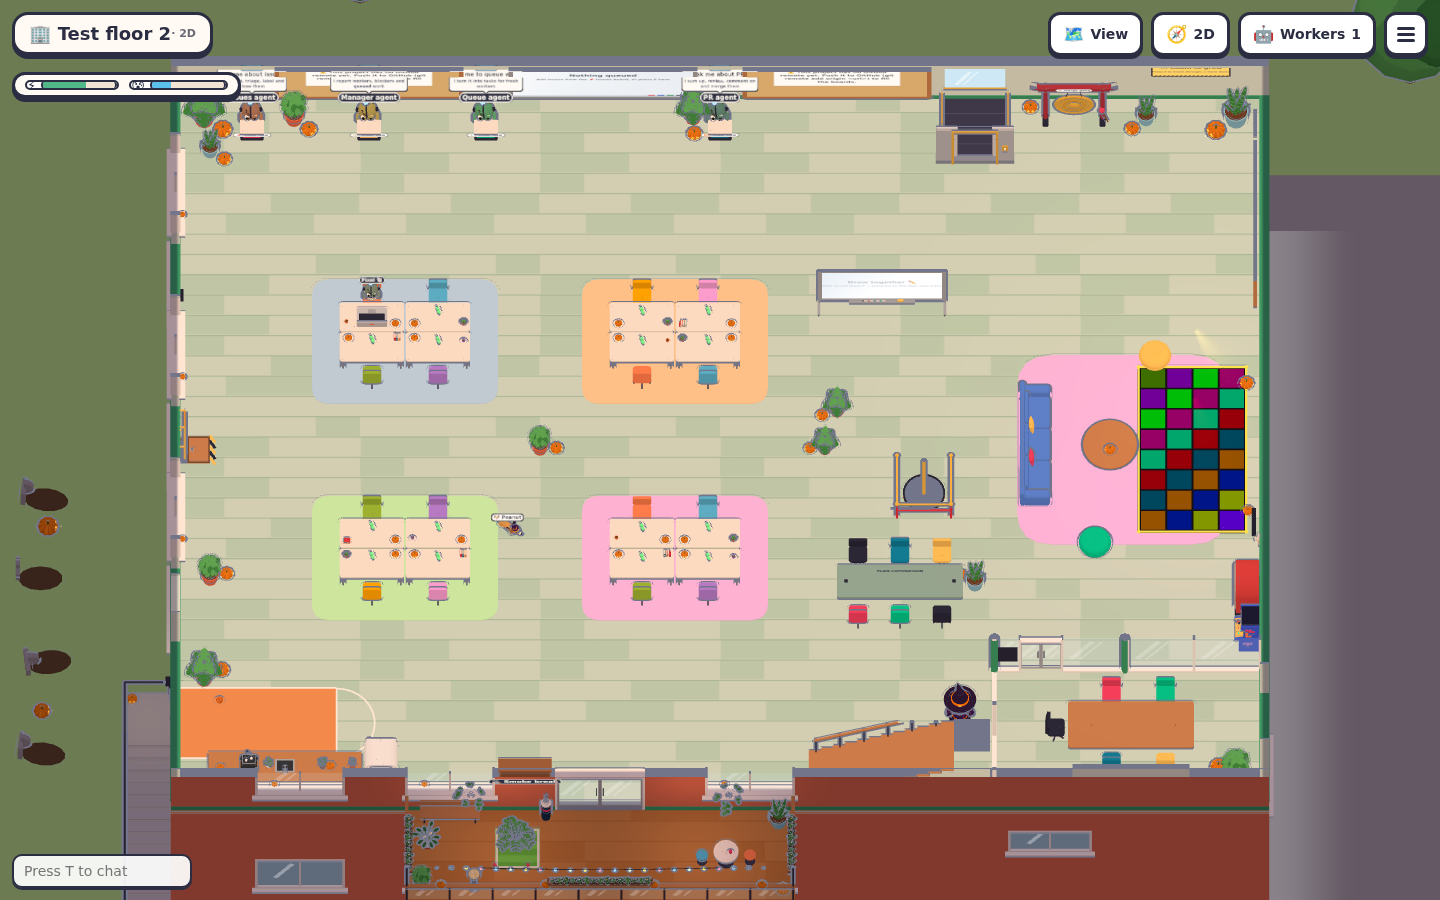
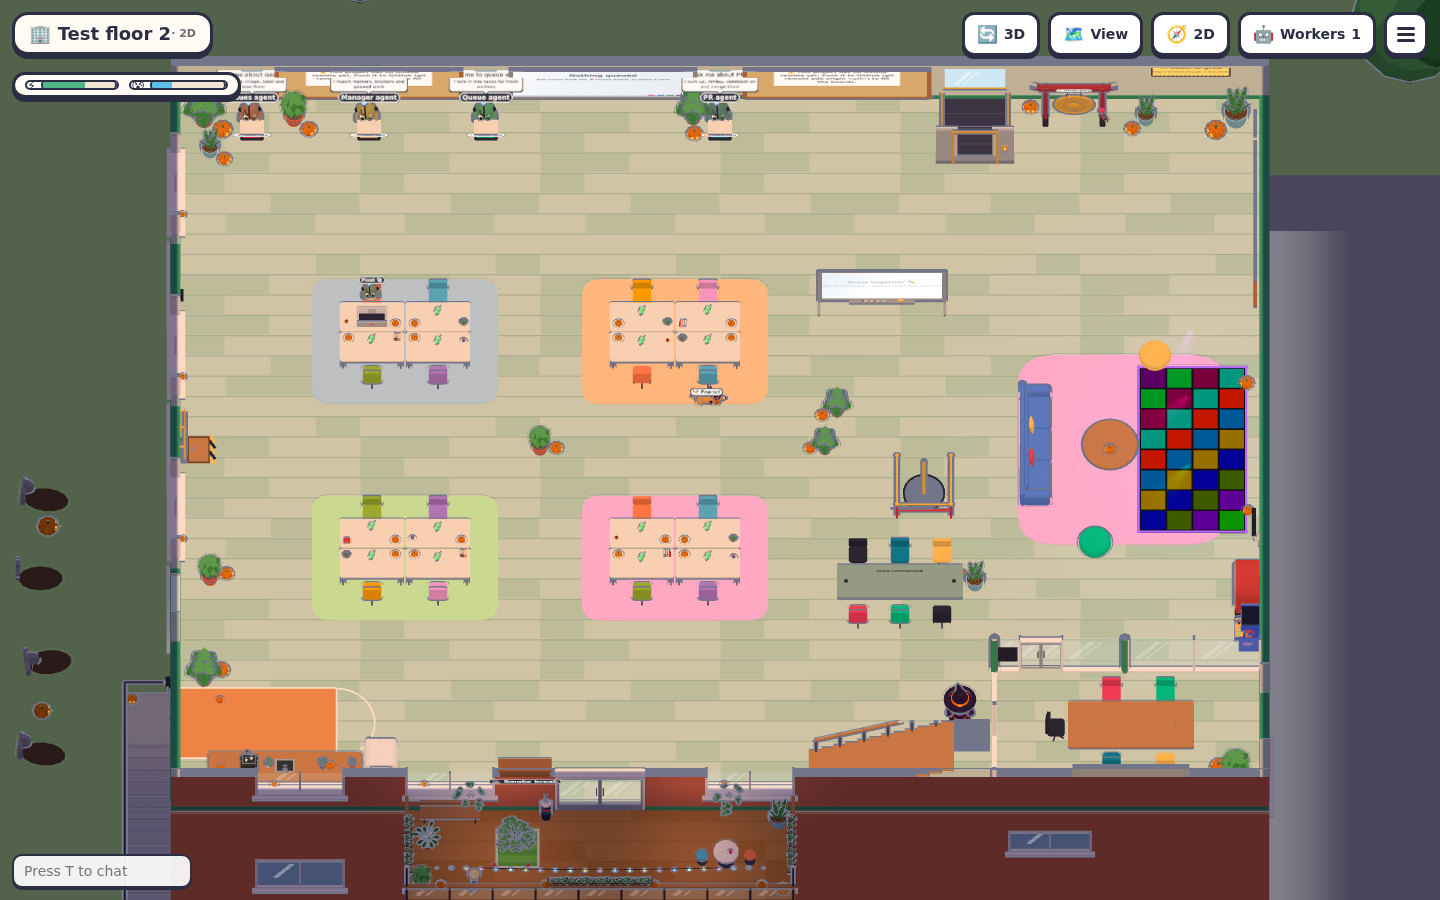
Add direct view toggle and anchor 2D camera during jumps

diff --git a/src/client/features/topdown/index.ts b/src/client/features/topdown/index.ts
@@ -4,6 +4,7 @@ import type { CoreState } from '../../core/ctx';
 import type { Parts } from '../../core/parts';
 import { modalOpen, h, openModal } from '../../ui/dom';
 import { HUD_ACTIONS } from '../../ui/menu';
+import { groundAt } from '../../player/collide';
 import { PlanCamera } from './camera';
 export { isTopdownRoute } from './camera';
 import { store } from '../../state';
@@ -44,7 +45,9 @@ export function installTopdown(ctx: Ctx, core: CoreState, parts: Parts) {
     camera.perspective = !plan;
     ctx.renderer.shadowMap.enabled = !plan;
     camera.updateProjectionMatrix();
-    cut.constant = plan ? ctx.player.pos.y + 2.5 : 1e6;
+    // Follow the supporting floor, not the airborne player's jump arc.
+    const floorY = Math.max(groundAt(ctx.player.colliders, ctx.player.pos.x, ctx.player.pos.z, ctx.player.pos.y), ctx.player.street);
+    cut.constant = plan ? floorY + 2.5 : 1e6;
     ctx.player.mouseLook = !plan;
     if (!plan) return;
     ctx.me.root.visible = true; // The plan camera never sits inside your character.
@@ -53,8 +56,8 @@ export function installTopdown(ctx: Ctx, core: CoreState, parts: Parts) {
     const clamp = (at: number, min: number, max: number, half: number) => max - min <= half * 2 ? (min + max) / 2 : THREE.MathUtils.clamp(at, min + half, max - half);
     const x = indoors ? clamp(p.x, room.minX, room.maxX, camera.span * camera.aspect / 2) : p.x;
     const z = indoors ? clamp(p.z, room.minZ, room.maxZ, camera.span * 0.55) : p.z;
-    camera.position.set(x, p.y + 50, z + 24);
-    camera.lookAt(x, p.y, z);
+    camera.position.set(x, floorY + 50, z + 24);
+    camera.lookAt(x, floorY, z);
     camera.updateMatrixWorld();
   } });
   ctx.ticks.add('env', () => {

diff --git a/src/client/features/view-selector/index.ts b/src/client/features/view-selector/index.ts
@@ -1,7 +1,10 @@
 import type { Ctx } from '../../core/context';
-import { openViewSelector } from '../../shared/view-selector';
+import { isTopdownRoute } from '../topdown/camera';
+import { openViewSelector, switchView } from '../../shared/view-selector';
 import { HUD_ACTIONS } from '../../ui/menu';
 export function installViewSelector(ctx: Ctx) {
   window.addEventListener('pagehide', () => ctx.net.disconnect());
+  const topdown = isTopdownRoute();
+  HUD_ACTIONS.push({ id: 'toggle-view', icon: '🔄', label: topdown ? 'Switch to 3D' : 'Switch to 2D', section: 'Office', status: () => true, chip: () => topdown ? '3D' : '2D', run: () => switchView(topdown ? '/' : '/2d', ctx.net) });
   HUD_ACTIONS.push({ id: 'views', icon: '🗺', label: 'View: 3D / 2D Game / Lite', section: 'Office', status: () => true, chip: () => 'View', run: () => openViewSelector(ctx.net) });
 }

diff --git a/docs/game2d-verification.md b/docs/game2d-verification.md
@@ -11,10 +11,11 @@ npm run build
 node --import tsx scripts/e2e-game2d.mjs
 ```
 
-Typecheck and build passed. All **976 tests** passed, including size, structure, camera projection and raycasting checks. All **17 browser check groups** passed with no page errors:
+Typecheck and build passed. All **976 tests** passed, including size, structure, camera projection and raycasting checks. All **19 browser check groups** passed with no page errors:
 
 - **authentication and shared bootstrap**: Protected aliases return through login to /2d; complete office composition connects once on the requested floor.
 - **physical elevator and floor management**: Approach/E opens the existing elevator with floor status, add/remove project actions, rooftop and garage; actual rides switch floors.
+- **jump camera stability**: Real Space jump lifts the character while camera height and projection remain unchanged.
 - **movement and shared collision physics**: Arrows/WASD, ground click-to-walk and collision against the original desk geometry work in the orthographic scene.
 - **complete office dialogs**: Shared Issues/PR/Queue, Boss, Smartphone, Services, Whiteboard, Meeting, Search, Settings, view controls and Plan Comparison open from the same menu with close/Esc focus recovery.
 - **real arcade interaction**: Boss Control Center launches playable Minesweeper with its original camera and canvas; closing restores the orthographic view and controls.
@@ -29,6 +30,7 @@ Typecheck and build passed. All **976 tests** passed, including size, structure,
 - **activity camera and registries**: Golf, cars, bar games, arcade and climbing use the original shared activity modules; camera ownership switches to perspective and back without another session.
 - **multiplayer**: Two real top-down clients exchange existing peer movement and remove the old peer on disconnect.
 - **3D/Lite handoff**: 2D → Lite → 3D → 2D preserves non-default floor and worker/session IDs with no spawn/resume requests.
+- **direct view toggle**: Visible HUD buttons switch 2D to 3D and back, preserving floor and worker sessions.
 - **browser runtime**: No page errors across Office, rooftop, garage, alternate maps and view switching.
 
 Detailed results are in [checks.json](game2d-evidence/checks.json). Live microphone/screen sharing and every individual recreation submode were not exercised; their implementations are shared with 3D. HTTP test fixtures return 404 for unrelated local-office discovery probes while retaining their request/auth assertions.

diff --git a/README.md b/README.md
@@ -503,3 +503,5 @@ Open **`/2d`** for the complete office in a desktop, top-down view. It uses the 
 Walk with **WASD / arrows**, click the floor to walk there, click a worker to open its existing terminal, and use **E** beside a fixture. Scroll to zoom; the Manager uses its existing kiosk. The physical **elevator** and its menu provide all floors, project management, the rooftop bar and the garage. Castle, Station and custom maps work too. Golf, cars, arcade and the other activities keep their existing controls and aiming cameras, returning to the flat office view when finished.
 
 The **View** selector switches 3D, 2D Game and Lite in the same tab while retaining the floor and running workers. Close dialogs with **✕** or **Esc** to resume controls immediately. 2D Game uses WebGL like 3D; **Lite** remains the lightweight, phone-friendly option. See [controls](docs/controls.md#2d-game-desktop), [architecture](docs/code-layout.md#playable-2d-client), and [screenshots and verification](docs/game2d-verification.md).
+
+The top bar has a direct **2D / 3D** toggle, available in both views. Switching preserves the selected floor and running workers. In 2D, jumping moves your character while the camera and cutaway stay anchored to the supporting floor.

diff --git a/docs/controls.md b/docs/controls.md
@@ -80,3 +80,5 @@ Open `/2d`, or select **2D Game** from **View**. The office has the same fixture
 | ✕ / Esc | Close the top dialog and immediately restore game controls |
 
 Keyboard movement cancels click-to-walk. Activities that take over the camera (including golf, driving, telescope and arcade screens) retain their original camera and controls; finishing returns to the top-down projection. The elevator and floor list retain running worker sessions. Dialogs use the shared modal stack and suspend movement, including nested dialogs. Lite remains available for mobile or a browser without WebGL.
+
+The top bar has a direct **2D / 3D** toggle, available in both views. Switching preserves the selected floor and running workers. In 2D, jumping moves your character while the camera and cutaway stay anchored to the supporting floor.
